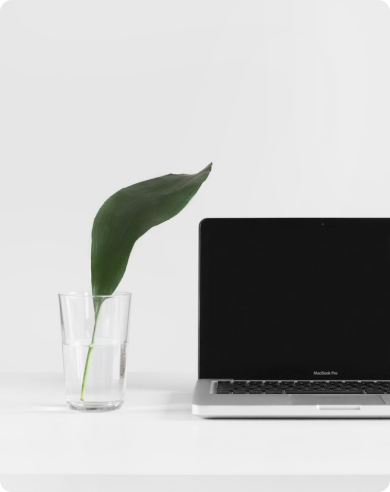
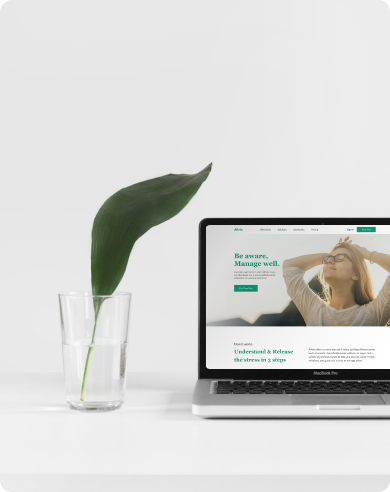
Done

Changed region(s): [[0.5231, 0.4573, 1.0, 0.7622]]

diff --git a/views/index.html b/views/index.html
@@ -12,7 +12,7 @@
     <nav>
         <h2 class="logo">Alivio</h2>
         <ul>
-            <li><a href="/why" class="navActive">Why Alivio</a></li>
+            <li><a href="/" class="navActive">Why Alivio</a></li>
             <li><a href="/solutions">Solutions</a></li>
             <li><a href="/community">Community</a></li>
             <li><a href="/pricing">Pricing</a></li>
@@ -32,15 +32,54 @@
         </div>
     </header>
 
+    <section class="sectHow">
+        <article>
+            <h5>How it works</h5>
+            <h2>Understand & Release <br> the stress in 3 steps</h2>
+        </article>
+        <p>Alivio offers as many journals it takes, tackling different areas such as anxiety, overwhelmedness, sadness,
+            or anger, and a variety of personal causes, to help you become aware of your emotions, and guide you in how
+            to manage stress.</p>
+    </section>
 
+    <section class="sectSteps">
+        <figure>
 
-
+            <h2>01</h2>
+            <h4>Personalize</h5>
+                
+                    <figcaption>Answer a quick survey about how you express yourself, what causes you stress, and what
+                        area
+                        would you like to work on. This way, we can fully personalize your journal!</figcaption>
+                    <img src="assets/img/01.png" alt="">
+                
+        </figure>
+        <figure>
+            <h2>02</h2>
+            <h4>Write & Understand</h5>
+                
+                    <figcaption>Write, draw, reflect, understand. Alivio will guide you through the prompts and will
+                        help
+                        you manage your stress!</figcaption>
+                    <img src="assets/img/02.png" alt="">
+                
+        </figure>
+        <figure>
+            <h2>03</h2>
+            <h4>Alivio!</h5>
+                
+                    <figcaption>Now you are aware, and have a way to manage and overcome your own stress.
+                        What are you waiting for? Alivio today!</figcaption>
+                    <img src="assets/img/03.png" alt="">
+                
+        </figure>
+    </section>
 
 
     <footer>
         <h3 class="logo">Alivio</h3>
         <ul>
-            <li><a href="/why" class="navActive">Why Alivio</a></li>
+            <li><a href="/">Why Alivio</a></li>
             <li><a href="/solutions">Solutions</a></li>
             <li><a href="/community">Community</a></li>
             <li><a href="/pricing">Pricing</a></li>

diff --git a/public/assets/css/style.css b/public/assets/css/style.css
@@ -4,7 +4,7 @@
     --main-font: Georgia, 'Times New Roman', Times, serif;;
     --second-font: 'Lato', sans-serif;
     --main-color: #01996D;
-    --main-opa-color: #01996e20;
+    --main-opa-color: #01996e30;
     --copy-color: #484848;
 }
 
@@ -91,19 +91,102 @@ header div {
 }
 
 
+.sectHow {
+    display: flex;
+    justify-content: center;
+    align-items: center;
+    padding: 10rem 0; 
+}
+
+.sectHow p {
+    width: 25%;
+}
+
+.sectHow h5 {
+    font-weight: 400;
+    font-size: 1.5rem;
+}
+
+.sectHow h2 {
+    font-family: var(--main-font);
+    color: var(--main-color);
+    font-size: 3.125rem;
+    margin-right: 10rem;
+}
+
+
+.sectSteps{
+    display: flex;
+    justify-content: space-around;
+
+}
+
+.sectSteps figure h2, .sectSteps figure h4 {
+    font-family: var(--main-font);
+}
+
+
+.sectSteps figure h2 {
+    color: var(--main-opa-color);
+    font-size: 9.375rem;
+}
 
 
 
+.sectSteps figure h4 {
+    font-size: 1.875rem;
+    margin: -3.7rem 0 2rem 0;
 
+}
 
+.sectSteps figure {
+    width: 24.5rem;
+    margin-bottom: 5rem;
+}
 
+.sectSteps figure:nth-of-type(2) {
+    margin-top: 15rem;
+}
 
+figcaption {
+    width: 100%;
+    line-height: 1.5rem;
+    margin-bottom: 3rem;
+}
 
+.solutions, .products {
+    display: flex;
+    justify-content: center;
+    align-items: center;
+    padding: 15rem 0;
+}
 
+.solutions h2 , .products h2{
+    font-family: var(--main-font);
+    font-size: 3.125rem;
+}
 
+.products h2 {
+    color: var(--main-color);
+}
 
+.solutions p , .products p{
+    margin: 2rem 0;
+}
 
+.solutions img{
+    margin-left: 5rem;
+}
 
+.products img {
+    margin-right: 5rem;
+}
+
+#error404 {
+    display: flex;
+    justify-content: center;
+    padding: 10rem 0;
+}
 
 footer {
     background: var(--main-color);
@@ -120,4 +203,3 @@ footer h3, footer ul li a {
     padding-bottom: 3rem;
     margin-left: 15rem;
 }
-

diff --git a/views/community.html b/views/community.html
@@ -4,14 +4,15 @@
     <meta charset="UTF-8">
     <meta name="viewport" content="width=device-width, initial-scale=1.0">
     <title>alivio - community</title>
+    <link rel="stylesheet" href="assets/css/style.css">
 </head>
 <body>
     <nav>
         <h2 class="logo">Alivio</h2>
         <ul>
-            <li><a href="/why" class="navActive">Why Alivio</a></li>
+            <li><a href="/">Why Alivio</a></li>
             <li><a href="/solutions">Solutions</a></li>
-            <li><a href="/community">Community</a></li>
+            <li><a href="/community" class="navActive">Community</a></li>
             <li><a href="/pricing">Pricing</a></li>
         </ul>
         <div>
@@ -29,7 +30,16 @@
         </div>
     </header>
 
-
+<section class="products">
+    <img src="assets/img/product.png" alt="">
+    <article>
+        <h5>Our product</h5>
+        <h2>You tell us your stress, <br> We make your diary</h2>
+        <p>Everyone experiences it, and in different ways. <br>
+            Let Alivio guide you, in a personalized journal experience, to overcome your stress.</p>
+        <button>Find Your Way</button>
+    </article>
+</section>
 
 
 
@@ -37,7 +47,7 @@
     <footer>
         <h3 class="logo">Alivio</h3>
         <ul>
-            <li><a href="/why" class="navActive">Why Alivio</a></li>
+            <li><a href="/">Why Alivio</a></li>
             <li><a href="/solutions">Solutions</a></li>
             <li><a href="/community">Community</a></li>
             <li><a href="/pricing">Pricing</a></li>

diff --git a/views/404.html b/views/404.html
@@ -3,13 +3,14 @@
 <head>
     <meta charset="UTF-8">
     <meta name="viewport" content="width=device-width, initial-scale=1.0">
-    <title>alivio - why</title>
+    <title>alivio - whoops</title>
+    <link rel="stylesheet" href="assets/css/style.css">
 </head>
 <body>
     <nav>
         <h2 class="logo">Alivio</h2>
         <ul>
-            <li><a href="/why" class="navActive">Why Alivio</a></li>
+            <li><a href="/">Why Alivio</a></li>
             <li><a href="/solutions">Solutions</a></li>
             <li><a href="/community">Community</a></li>
             <li><a href="/pricing">Pricing</a></li>
@@ -19,25 +20,14 @@
             <button>Start Trial</button>
         </div>
     </nav>
-
-    <header>
-        <div>
-            <h1>Be aware, <br> Manage well.</h1>
-            <p>Everyone experiences stress in different ways. <br>
-                Let Alivio guide you, in a personalized journal <br> experience, to overcome your stress.</p>
-            <button>Find Your Way</button>
-        </div>
-    </header>
-
-
-
-
-
+<div id="error404">
+    <img  src="assets/img/404.svg" alt="">
+</div>
 
     <footer>
         <h3 class="logo">Alivio</h3>
         <ul>
-            <li><a href="/why" class="navActive">Why Alivio</a></li>
+            <li><a href="/">Why Alivio</a></li>
             <li><a href="/solutions">Solutions</a></li>
             <li><a href="/community">Community</a></li>
             <li><a href="/pricing">Pricing</a></li>

diff --git a/views/solutions.html b/views/solutions.html
@@ -4,13 +4,14 @@
     <meta charset="UTF-8">
     <meta name="viewport" content="width=device-width, initial-scale=1.0">
     <title>alivio - solutions</title>
+    <link rel="stylesheet" href="assets/css/style.css">
 </head>
 <body>
     <nav>
         <h2 class="logo">Alivio</h2>
         <ul>
-            <li><a href="/why" class="navActive">Why Alivio</a></li>
-            <li><a href="/solutions">Solutions</a></li>
+            <li><a href="/">Why Alivio</a></li>
+            <li><a href="/solutions" class="navActive">Solutions</a></li>
             <li><a href="/community">Community</a></li>
             <li><a href="/pricing">Pricing</a></li>
         </ul>
@@ -29,7 +30,14 @@
         </div>
     </header>
 
-
+<section class="solutions">
+    <article>
+        <h2>Let's hear about <br> Kayla's success story</h2>
+        <p>See how well Alivio works in a real customer's life.</p>
+        <button>Let's get started</button>
+    </article>
+    <img src="assets/img/Video.png" alt="">
+</section>
 
 
 
@@ -37,7 +45,7 @@
     <footer>
         <h3 class="logo">Alivio</h3>
         <ul>
-            <li><a href="/why" class="navActive">Why Alivio</a></li>
+            <li><a href="/">Why Alivio</a></li>
             <li><a href="/solutions">Solutions</a></li>
             <li><a href="/community">Community</a></li>
             <li><a href="/pricing">Pricing</a></li>

diff --git a/views/pricing.html b/views/pricing.html
@@ -4,15 +4,16 @@
     <meta charset="UTF-8">
     <meta name="viewport" content="width=device-width, initial-scale=1.0">
     <title>alivio - pricing</title>
+    <link rel="stylesheet" href="assets/css/style.css">
 </head>
 <body>
     <nav>
         <h2 class="logo">Alivio</h2>
         <ul>
-            <li><a href="/why" class="navActive">Why Alivio</a></li>
+            <li><a href="/">Why Alivio</a></li>
             <li><a href="/solutions">Solutions</a></li>
             <li><a href="/community">Community</a></li>
-            <li><a href="/pricing">Pricing</a></li>
+            <li><a href="/pricing" class="navActive">Pricing</a></li>
         </ul>
         <div>
             <a href="#">Sign in</a>
@@ -37,7 +38,7 @@
     <footer>
         <h3 class="logo">Alivio</h3>
         <ul>
-            <li><a href="/why" class="navActive">Why Alivio</a></li>
+            <li><a href="/">Why Alivio</a></li>
             <li><a href="/solutions">Solutions</a></li>
             <li><a href="/community">Community</a></li>
             <li><a href="/pricing">Pricing</a></li>

diff --git a/index.js b/index.js
@@ -6,10 +6,6 @@ app.get('/', (req, res) => {
     res.sendFile("./views/index.html", { root: __dirname })
 })
 
-app.get('/why', (req, res) => {
-    res.sendFile("./views/why.html", { root: __dirname })
-})
-
 app.get("/solutions", (req, res) => {
     res.sendFile("./views/solutions.html", { root: __dirname })
 })
